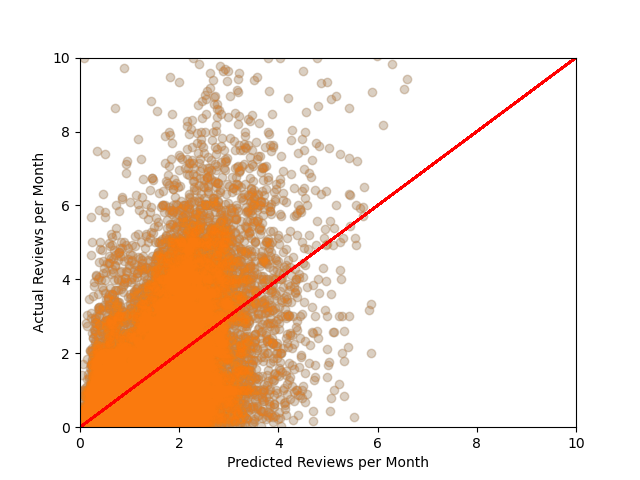
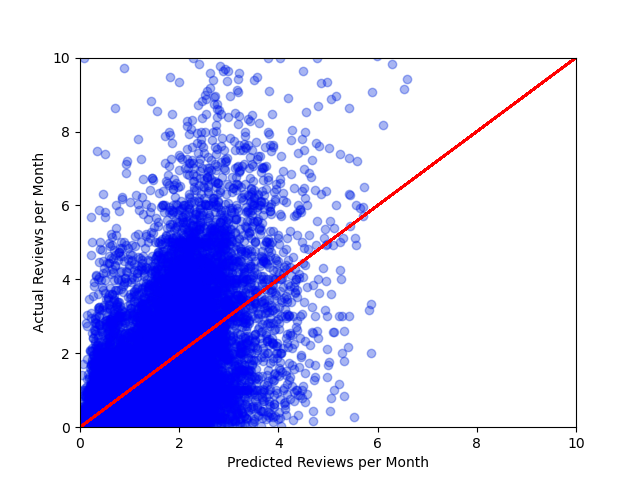
Fix colour of zoomed plot

diff --git a/src/reviews_model_analysis.py b/src/reviews_model_analysis.py
@@ -82,7 +82,7 @@ def main(input_path, output_path):
         exit()
     
     # IMPORT DATA AND SPLIT-----------------------------------------------------------------------
-    
+
     # read train and test data from csv files
     print("Reading data from CSV files...")
     train_df = pd.read_csv(f"{input_path}/airbnb_train_df.csv", na_filter=False)
@@ -402,7 +402,7 @@ def main(input_path, output_path):
 
     # Plot predicted vs actual reviews per month, zoomed into majority of samples
     plt.plot(y_test, y_test, color='r')
-    plt.scatter(lgbm_search.best_estimator_.predict(X_test), y_test, alpha=0.2)
+    plt.scatter(lgbm_search.best_estimator_.predict(X_test), y_test, alpha=0.2, color='b')
     plt.xlabel('Predicted Reviews per Month')
     plt.ylabel('Actual Reviews per Month')
     plt.ylim(0,10)
